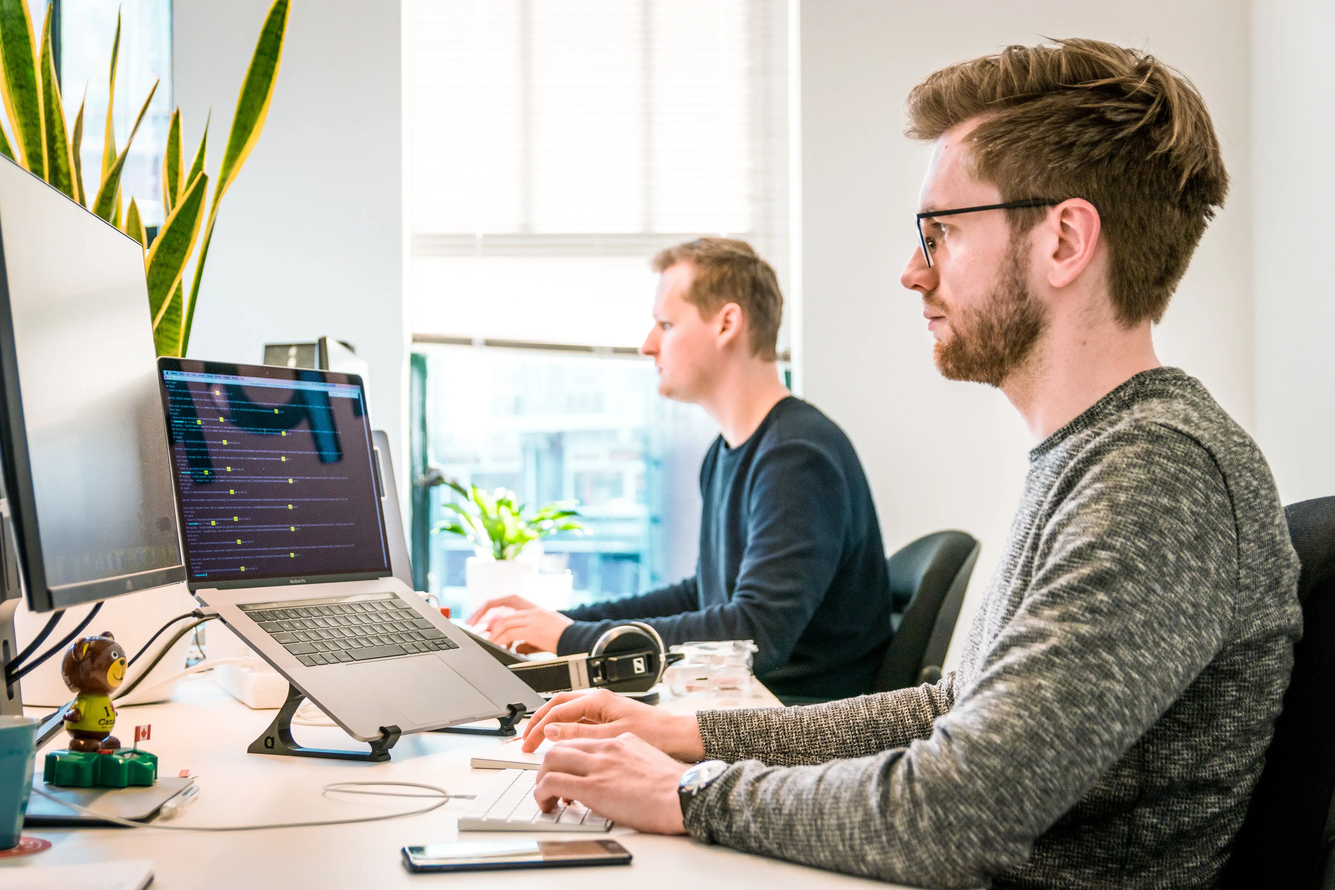
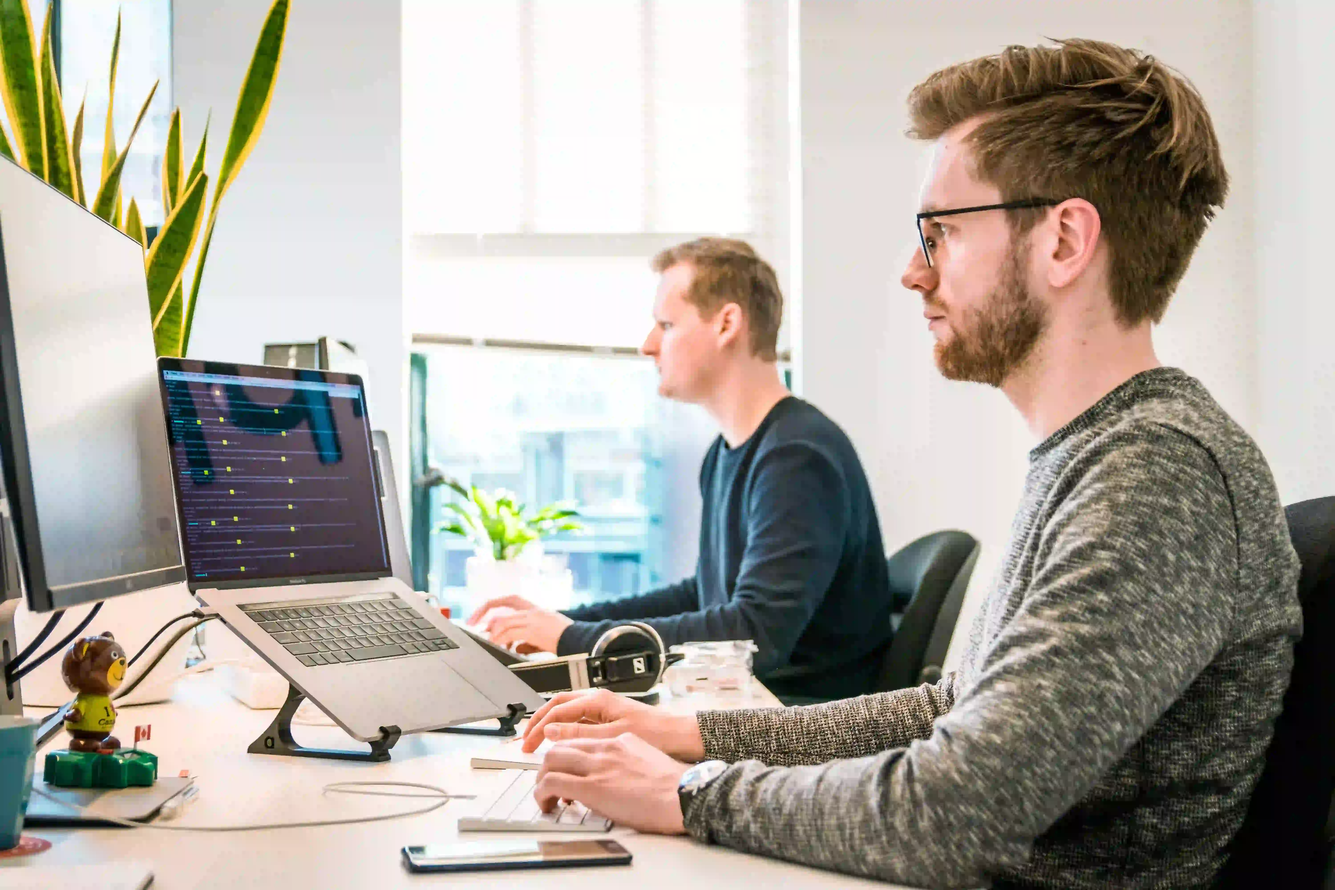
compressed image files and added parallax to carousel

diff --git a/client/src/components/Carousel.jsx b/client/src/components/Carousel.jsx
@@ -1,6 +1,6 @@
 // Import Swiper React components
 import { Swiper, SwiperSlide } from 'swiper/react';
-import { Pagination, Navigation , Autoplay} from 'swiper/modules';
+import { Parallax, Pagination, Navigation , Autoplay} from 'swiper/modules';
 import natureImg from '../assets/nature.webp'
 import workImg from '../assets/work.webp'
 import financeImg from '../assets/finance.webp'
@@ -23,6 +23,7 @@ export default Carousel = () => {
         }}
         loop={true}
         speed={1400}
+        parallax={true}
         autoplay={{
             delay: 3000,
             disableOnInteraction: false,
@@ -31,7 +32,7 @@ export default Carousel = () => {
         clickable: true,
         }}
         navigation={true}
-        modules={[ Pagination, Navigation, Autoplay]}
+        modules={[ Parallax, Pagination, Navigation, Autoplay]}
         className="mySwiper h-[250px] md:h-[300px] lg:h-[400px]"
     >
         <SwiperSlide>
